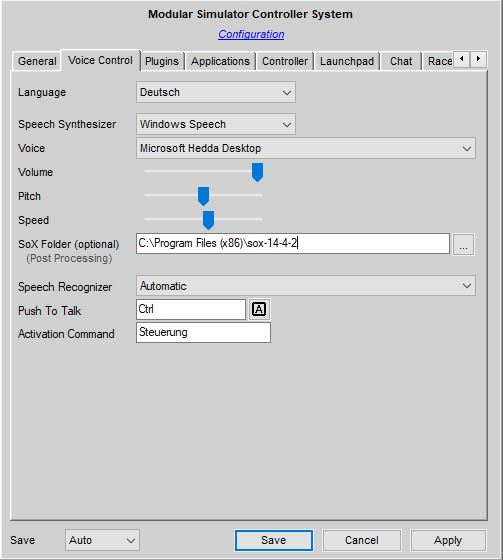
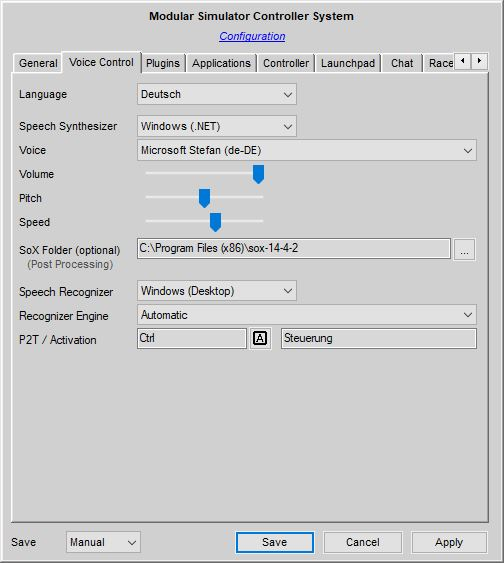
Support for .NET SpeechRecognizer

diff --git a/Docs/Installation & Configuration.md b/Docs/Installation & Configuration.md
@@ -151,7 +151,7 @@ After you have sucessfully installaed all the necessary support packages, we can
 
 ![](https://github.com/SeriousOldMan/Simulator-Controller/blob/main/Docs/Images/Configuration%20Tab%207.JPG)
 
-You can define the spoken language you want to use for voice generation with the first dropdown menu. With the next drop down menu, you can choose the speech synthesis engine, which you want to use for voice generation. If you choose "Windows" here, you will use the synthesis engine on your local computer. If you choose "Azure Cognitive Services", two additional fields will appear, where you have to enter your Azure subscription key and the endpoint for your region.
+You can define the spoken language you want to use for voice generation with the first dropdown menu. With the second drop down menu, you can choose the speech synthesis engine, which you want to use for voice generation. You have the choice between two different synthesizers which execute on your local PC and you can also use the voice services of the Azure cloud. "Windows (Win32)" and "Windows (.NET)" are built into the Windows operating system and provide more or less the same voice quality, but you may have access to dfferent sets of available voices. If you choose "Azure Cognitive Services", two additional fields will appear, where you have to enter your Azure subscription key and the endpoint for your region.
 
 ![](https://github.com/SeriousOldMan/Simulator-Controller/blob/main/Docs/Images/Configuration%20Tab%207%20Azure%20Service.JPG)
 
@@ -159,8 +159,10 @@ You must been registered for the Azure Cloud Services (see https://azure.microso
 
 Please note, that although you must supply a credit card when registering, according to Microsoft, you won't be charged a single cent, unless you give explicit consent for a specific resource. Regarding the Speech API resource, up to 500.000 characters of Text-to-Speech conversion are free per month in the regions "US, East", "Asia, South-East" and "Europe, West". I am quite sure, that you will never reach this limit, unless you are doing 24 h races seven times a week for the whole month, so give it a try...
 
-After choosing the speech synthesis method, you can choose the concrete voice to be used for voice synthesis and also the voice recognizer language with the respectivly labeled dropdown menus. Be careful, a mismatch between chosen language and the selected voice generator will give you very funny results. Generally, I recommend to use the "Automatic" setting for both and let Simulator Controller decide which is the best voice and the best recognizer for your current selected language. If more than one voice is available for voice generation, each time one is selected randomly, thereby providing some variety. For voice output you can set the volume, the pitch and the speed (rate) using the three corresponding sliders.
+After choosing the speech synthesis method, you can choose the concrete voice to be used for voice synthesis. Be careful, a mismatch between chosen language and the selected voice generator will give you very funny results. Generally, I recommend to use the "Automatic" setting and let Simulator Controller decide which is the best voice for your current selected language. If more than one voice is available for your chosen language, each time one is selected randomly, thereby providing some variety. For voice output you can set the volume, the pitch and the speed (rate) using the three corresponding sliders.
+
 Very similar, you define which recognition engine should be used. I recommend to start with the so called Desktop engine, which is built into Windows and needs no installation. If you can't provide the required audio quality and have a lot of recognition errors, please install the Windows Server recognition engine as described above and select this engine. After selecting the desired recognizer, you can also choose here the language specific recognition engine. I recommend to leave the setting in "Automatic" here as well.
+
 Last but not least, if you have installed [SoX](http://sox.sourceforge.net/), it will be used to apply audio post processing to the spoken voice to achieve a sound like a typical team radio. Really immersive stuff, you won't miss that.
 
 Note: Additionally to this default configuration, you can specify the spoken and recognized language and the voice for each race assistant individually using plugin parameters (see the configuration documentation of [Jona](https://github.com/SeriousOldMan/Simulator-Controller/wiki/Plugins-&-Modes#plugin-race-engineer) or [Cato](https://github.com/SeriousOldMan/Simulator-Controller/wiki/Plugins-&-Modes#plugin-race-strategist) or [Elisa](https://github.com/SeriousOldMan/Simulator-Controller/wiki/Virtual-Race-Spotter) for more details). Choosing different voices will be helpful to better recognize who is currently talking.

diff --git a/Docs/Virtual Race Strategist.md b/Docs/Virtual Race Strategist.md
@@ -72,6 +72,16 @@ The same principles as [described for Jona](https://github.com/SeriousOldMan/Sim
 
 I strongly recommed to memorize the phrases in the language you use to interact with Cato. You will always find the current version of the grammar files in the *Resources\Grammars* folder of the Simulator Controller distribution. Or you can take a look at the files in the [*Resources\Grammars* directory on GitHub](https://github.com/SeriousOldMan/Simulator-Controller/tree/main/Resources/Grammars), for example the German version [Race Strategist.grammars.de](https://github.com/SeriousOldMan/Simulator-Controller/blob/main/Resources/Grammars/Race%20Strategist.grammars.de).
 
+### Enabling and disabling specific warnings and announcements
+
+Cato can give you information about the weather development and might recommend a strategy change. You may disable this warning by using a special voice command:
+
+	[Please] No more *warning* [please]
+
+As you might expect, the word "please" is optional. Only one option for *warning* is available at the moment: "weather warnings". After you have disabled the warning (it is enabled by default), you can reenable it with the following command:
+
+	[Please] Give me *warning* [please]
+
 ## Racing with Cato
 
 Cato will be active during practice and race sessions, although the assistant will be of not much help in a practice session, since it only collects data for future race strategy development purposes. Using Cato during a race is easy. You can activate the assitant anytime using the activation phrase and ask then for information about current lap times, current and possible future standings and so on. Normally, Cato will not contact you on its own like Jona does, but Cato will also collaberate with Jona, when it is time for a pitstop. In this situation, Cato might suggest a specific lap for the next pitstop to optimize your race position after the stop.

diff --git a/Docs/Virtual Race Engineer.md b/Docs/Virtual Race Engineer.md
@@ -168,6 +168,16 @@ As you can see here, each phrase provides different alternative sentences. Varia
 
 I strongly recommed to memorize the phrases in the language you use to interact with Jona. You will always find the current version of the grammar files in the *Resources\Grammars* folder of the Simulator Controller distribution. Or you can take a look at the files in the [Resources\Grammars directory on GitHub](https://github.com/SeriousOldMan/Simulator-Controller/tree/main/Resources/Grammars), for example the German version [Race Engineer.grammars.de](https://github.com/SeriousOldMan/Simulator-Controller/blob/main/Resources/Grammars/Race%20Engineer.grammars.de).
 
+### Enabling and disabling specific warnings and announcements
+
+Jona will give you a lot of information about fuel level, damages after an accident, and so on. You may disable these warnings by using a special voice command:
+
+	[Please] No more *warning* [please]
+
+As you might expect, the word "please" is optional. Available options for *warning* are: "fuel warnings", "damage warnings", "damage analysis", "weather warnings" (when the assistant Cato is active, it will take the duty for weather warnings). After you have disabled one of the warnings (all are enabled by default), you can reenable it with the following command:
+
+	[Please] Give me *warning* [please]
+
 ## Racing with Jona
 
 Racing with Jona is easy, just begin your session and wait until Jona will contact you. This will be a few seconds after you crossed the start finish line after your first complete lap. Jona will be available in Practice, Qualification and Race sessions, but the amount of support you can expect from Jona will vary between those session types. Pitstops, for example, will only be handled during race sessions.

diff --git a/Docs/Releases.md b/Docs/Releases.md
@@ -5,7 +5,8 @@
   3. Full implementation of the database consolidation and distribution process. Depending on your own consent, you will receive new tyre pressure information or even shared car setups from the community every 2 days. Because of this, you will be asked to renew your consent for sharing your own data, because you will only receive anything, if you are also willing to share.
   4. New voice commands for the Virtual Race Spotter to enable or disable announcments while out on the track. You can say, for example: "No more performance updates please" or "Please give me blue flag warnings". See the corresponding [documentation](*) for more information.
   5. Support for .NET compatible TTS 5.1 voices for voice output. See the revised documentation for [voice control](https://github.com/SeriousOldMan/Simulator-Controller/wiki/Installation-&-Configuration#tab-voice-control) configuration for more information.
-  6. [Developer] Added a class library for handling complex FTP operations.
+  6. Support for an additional voice recognition framework, which provide a much better recognition rate and quality, as long as you have a decent voice audio quality (for example when using a headset). The changes are documented [here](https://github.com/SeriousOldMan/Simulator-Controller/wiki/Installation-&-Configuration#tab-voice-control) as well.
+  7. [Developer] Added a class library for handling complex FTP operations.
   
   Please also take a look on the [Update Notes](https://github.com/SeriousOldMan/Simulator-Controller/wiki/Update-Notes#release-400) and check whether any manual updates to your local configuration might be necessary.
 

diff --git a/Docs/Virtual Race Spotter.md b/Docs/Virtual Race Spotter.md
@@ -40,6 +40,16 @@ All these alerts and announcements can be individually configured or disabled wi
 
 Please note, that not every simulation will support all these capabilities and that the behaviour will be very different in each simulation. This is due to the fact, that the provided data differs heavily between the different simulations. Please see the section below for detailed information.
 
+### Enabling and disabling specific warnings and announcements
+
+As you have seen above, Elisa will give you a lot of warnings and announcements about traffic and the overall race situation. You may disable these announcements by using a special voice command:
+
+	[Please] No more *announcement* [please]
+
+As you might expect, the word "please" is optional. Available options for *announcement* are: "distance information", "side alerts", "rear alerts", "blue flag warnings", "yellow flag warnings". After you have disabled one of the warnings (all are enabled or disabled according to the settings described above), you can reenable it with the following command:
+
+	[Please] Give me *announcement* [please]
+
 ## Simulator Integration
 
 As mentioned, each simulator is different. The Spotter will make as much out of the data supplied by the simulation as possible, as long as a specific information is available, even if it is somewhat restricted. The following table shows you which capability of the Spotter is available in the different simulators.

diff --git a/Docs/Updates.md b/Docs/Updates.md
@@ -51,6 +51,8 @@ The shared database consolidation and distribution process is enabled with this 
 
 Beside that, this version introduces new voice commands for the Race Assistants and also for the Virtual Race Spotter to enable or disable the different announcements and warnings while you are out on the track. Since this is the first time that you can talk to the Spotter, you have to enable the voice listener for the Race Spotter in the configuration, which might be not enabled currently. Simply add "raceAssistantListener: On" to the list of plugin arguments for the "Race Spotter" plugin in the [configuration tool](https://github.com/SeriousOldMan/Simulator-Controller/wiki/Installation-&-Configuration#configuration).
 
+Other changes will be handled automatically. You will notice that the plugin parameter "raceAssistantService" has been renamed to "raceAssistantSynthesizer" and a new paramater "raceAssistantRecognizer" has been introduced.
+
 ***
 
 ## Release 3.9.8
